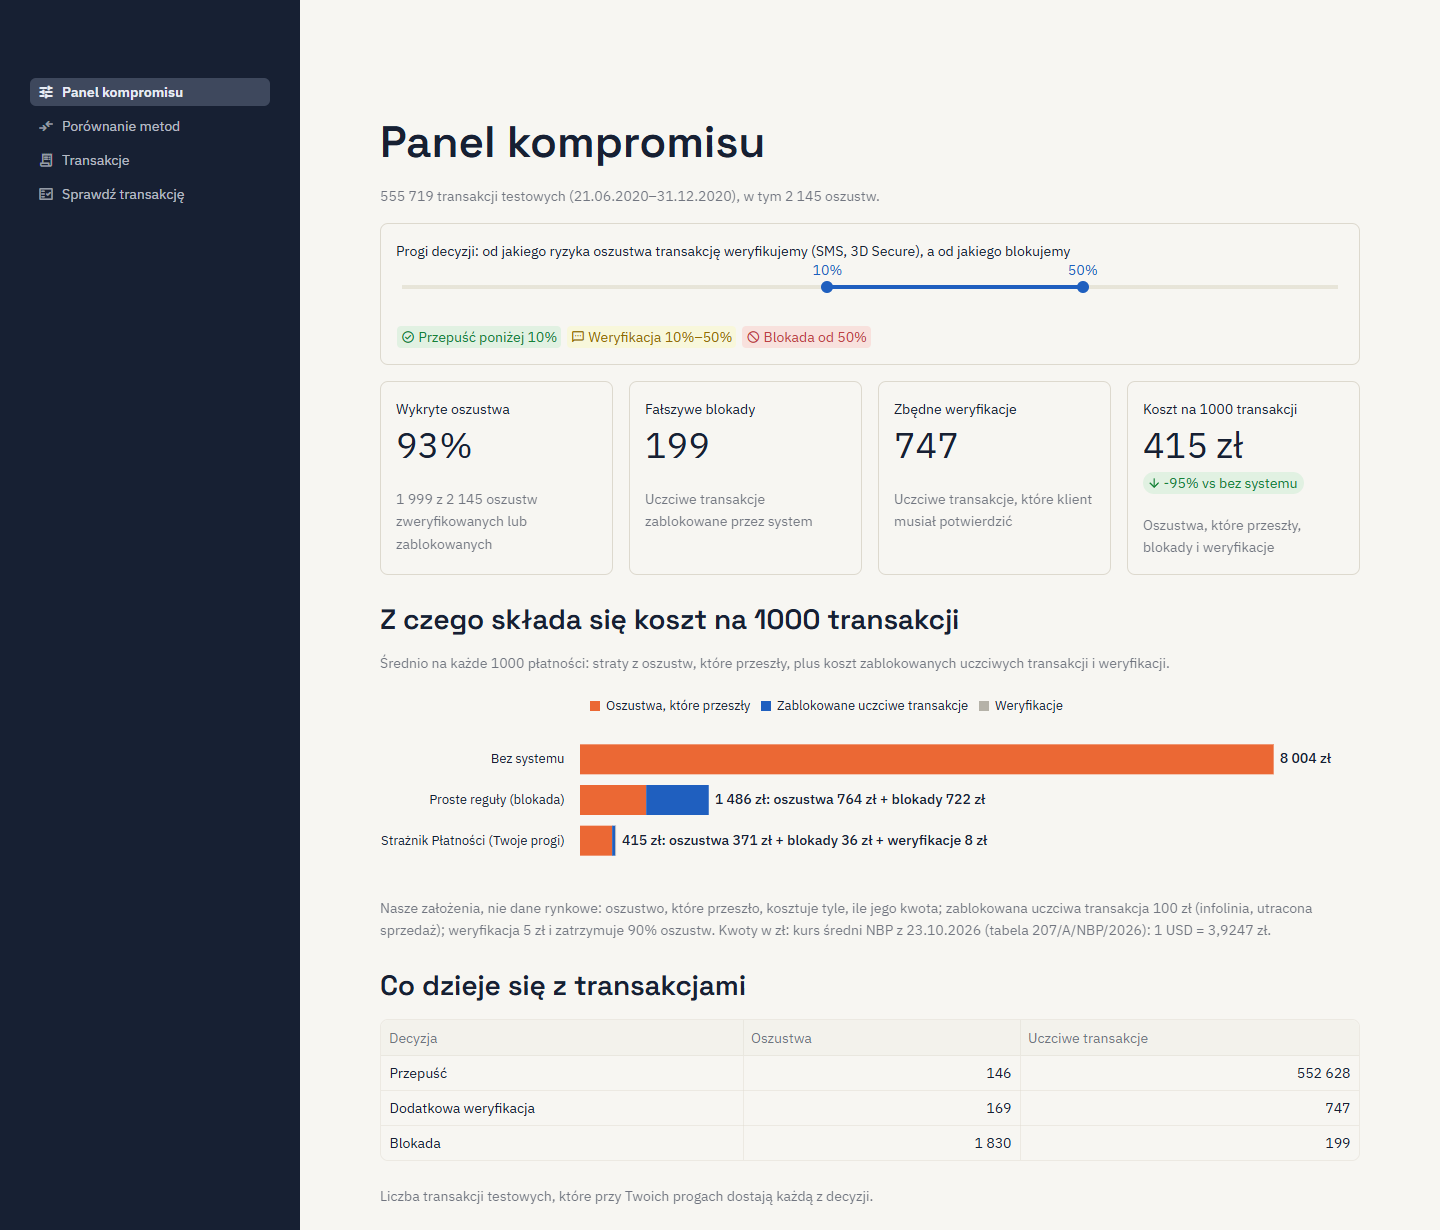
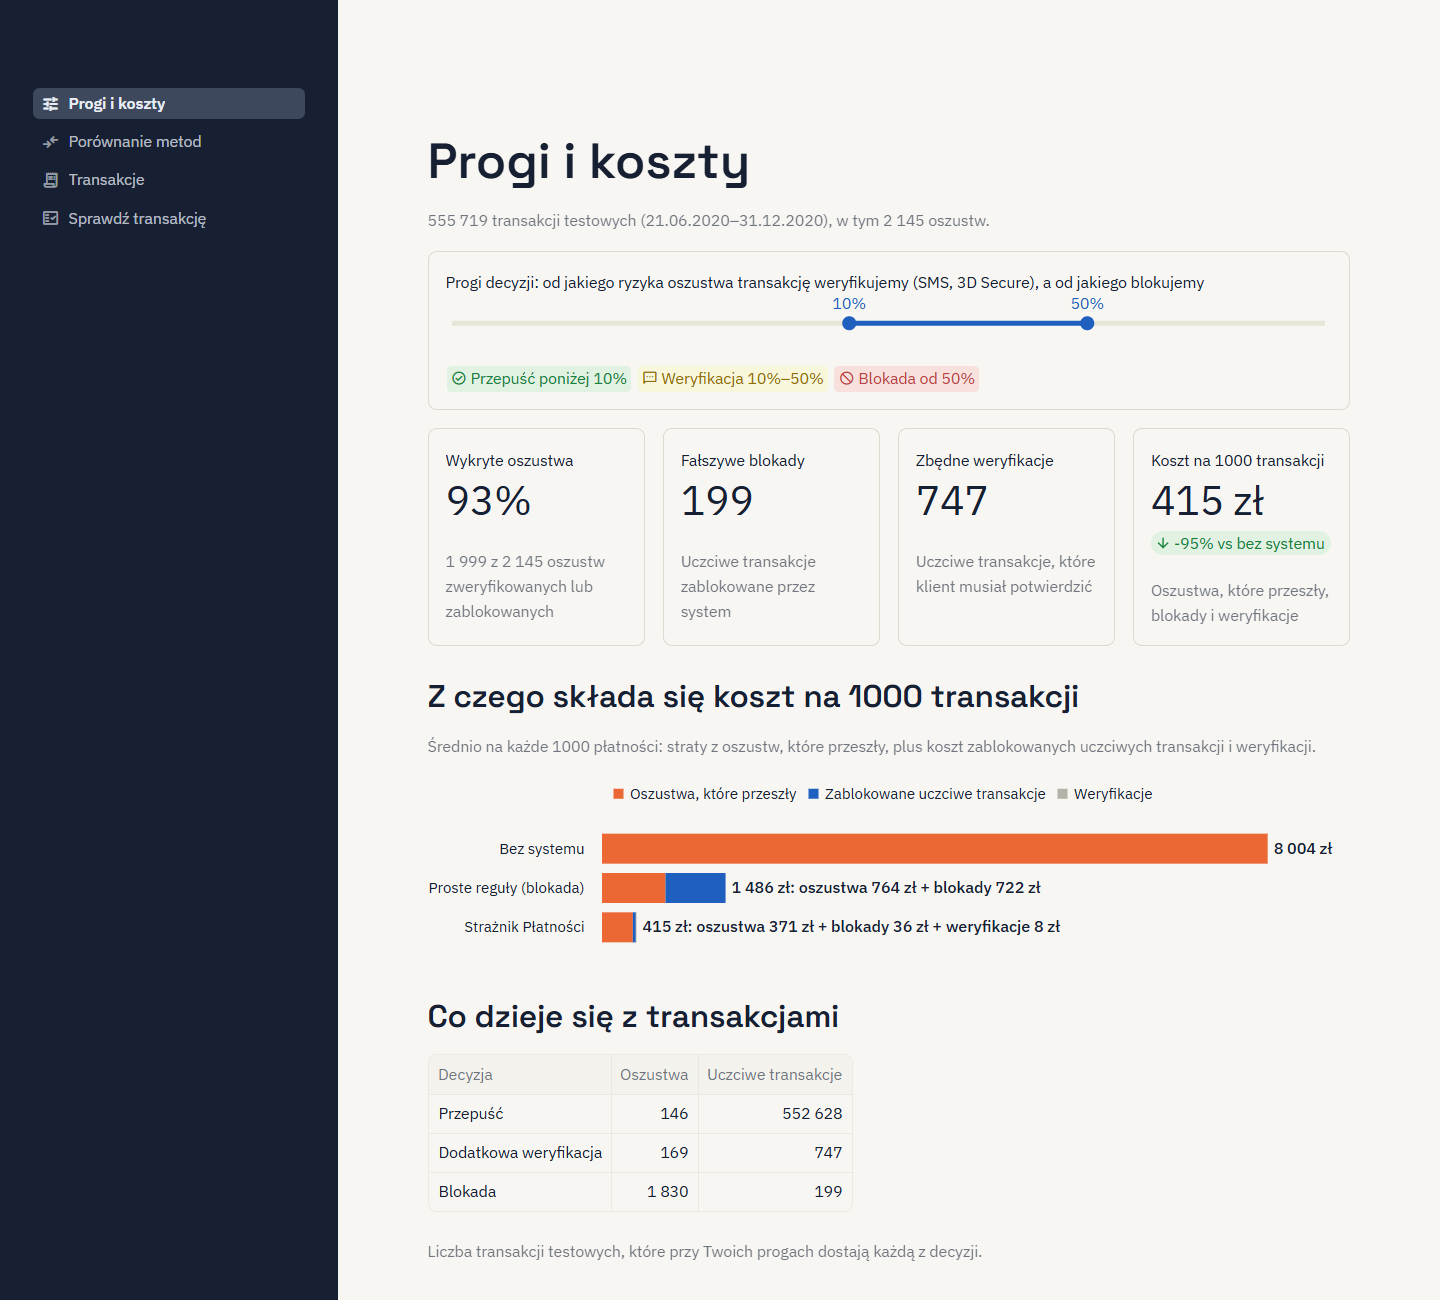
Larger font, narrower tables, fewer captions, rename trade-off panel

diff --git a/views/panel.py b/views/panel.py
@@ -1,4 +1,4 @@
-"""Trade-off panel: the decision thresholds, what they catch, whom they stop and what it costs."""
+"""Thresholds and costs: the decision thresholds, what they catch, whom they stop and what it costs."""
 
 import altair as alt
 import numpy as np
@@ -6,7 +6,7 @@ import pandas as pd
 import streamlit as st
 
 from src.app_data import load_meta, load_scored, readable, show_thresholds
-from src.config import BLOCK_COST, DEFAULT_THRESHOLDS, RISK_STEPS, USD_PLN_SOURCE, VERIFY_COST, VERIFY_EFFICACY
+from src.config import DEFAULT_THRESHOLDS, RISK_STEPS, VERIFY_COST
 from src.evaluation import BLOCK, DECISION_LABELS, PASS, VERIFY, Outcome, decide, evaluate
 from src.formatting import BLUE, GRAY, INK, ORANGE, fmt_date, fmt_int, fmt_pct, fmt_pln, fmt_step
 
@@ -41,7 +41,7 @@ no_system = evaluate(y, amount, np.full(len(df), PASS))
 rules = evaluate(y, amount, np.where(df["rules_any"], BLOCK, PASS))
 
 period = f"{fmt_date(test['from'])}–{fmt_date(test['to'])}"
-st.title("Panel kompromisu")
+st.title("Progi i koszty")
 st.caption(f"{fmt_int(test['rows'])} transakcji testowych ({period}), w tym {fmt_int(test['fraud'])} oszustw.")
 
 with st.container(border=True):
@@ -92,14 +92,9 @@ bars = alt.Chart(parts).mark_bar(size=30).encode(
     order=alt.Order("Kolejność:Q"),
     tooltip=["Wariant:N", "Składnik:N", alt.Tooltip("Etykieta:N", title="Koszt")],
 )
-labels = alt.Chart(totals).mark_text(align="left", dx=6, fontSize=14, fontWeight=500, color=INK).encode(
+labels = alt.Chart(totals).mark_text(align="left", dx=6, fontSize=16, fontWeight=500, color=INK).encode(
     x="Koszt:Q", y=rows, text="Etykieta:N")
 st.altair_chart(readable((bars + labels).properties(height=190)), width="stretch")
-st.caption(
-    f"Nasze założenia, nie dane rynkowe: oszustwo, które przeszło, kosztuje tyle, ile jego kwota; zablokowana "
-    f"uczciwa transakcja {fmt_pln(BLOCK_COST)} (infolinia, utracona sprzedaż); weryfikacja {fmt_pln(VERIFY_COST)} "
-    f"i zatrzymuje {fmt_pct(VERIFY_EFFICACY)} oszustw. Kwoty w zł: {USD_PLN_SOURCE}."
-)
 
 st.subheader("Co dzieje się z transakcjami")
 order = [PASS, VERIFY, BLOCK]
@@ -109,6 +104,6 @@ table = pd.DataFrame({
     "Uczciwe transakcje": [fmt_int(current.honest[d]) for d in order],
 })
 right_aligned = st.column_config.TextColumn(alignment="right")
-st.dataframe(table, hide_index=True, width="stretch",
+st.dataframe(table, hide_index=True, width="content",
              column_config={"Oszustwa": right_aligned, "Uczciwe transakcje": right_aligned})
 st.caption("Liczba transakcji testowych, które przy Twoich progach dostają każdą z decyzji.")

diff --git a/views/transactions.py b/views/transactions.py
@@ -14,19 +14,16 @@ VIEW_NOTES = {
     HELD: "Transakcje skierowane do weryfikacji lub zablokowane, od najbardziej ryzykownych.",
     MISTAKES: "Przepuszczone oszustwa i fałszywe blokady, od najbardziej ryzykownych.",
 }
-ROW_HEIGHT = 35  # px per row of st.dataframe, used to fit the table to its rows
+ROW_HEIGHT = 40  # px per row of st.dataframe, set explicitly to fit the table to its rows
 
 settings = st.session_state.settings
 df = load_scored()
 day = df.loc[df["is_fraud"] == 1, "day"].value_counts().idxmax()
 
-st.title("Transakcje")
-st.caption(f"{day:%d.%m.%Y}, dzień z największą liczbą oszustw w danych testowych. Zaznacz wiersz, aby zobaczyć "
-           "wyjaśnienie decyzji (na start pokazujemy pierwszy).")
+st.title(f"Transakcje z {day:%d.%m.%Y}")
 
-col_view, col_thresholds = st.columns([1.2, 2.8], vertical_alignment="bottom")
-view = col_view.segmented_control("Pokaż", [HELD, MISTAKES], default=HELD, required=True)
-with col_thresholds:
+with st.container(horizontal=True, vertical_alignment="bottom"):
+    view = st.segmented_control("Pokaż", [HELD, MISTAKES], default=HELD, required=True)
     show_thresholds(settings)
 
 day_df = df[df["day"] == day].copy()
@@ -50,7 +47,7 @@ table = pd.DataFrame({
     "Oszustwo wg danych": np.where(day_df["is_fraud"] == 1, "Tak", "Nie"),
 })
 event = st.dataframe(
-    table, hide_index=True, width="stretch", height=ROW_HEIGHT * (min(len(table), 4) + 1) + 3,
+    table, hide_index=True, width="content", row_height=ROW_HEIGHT, height=ROW_HEIGHT * (min(len(table), 4) + 1) + 1,
     on_select="rerun", selection_mode="single-row",
     key=f"transactions-{view}-{settings.verify_from}-{settings.block_from}",
     column_config={
@@ -66,7 +63,7 @@ st.subheader("Wyjaśnienie decyzji")
 st.markdown(f"Wybrana transakcja: **{row['ts']:%H:%M} · {CATEGORY_LABELS[row['category']]} · "
             f"{fmt_pln(row['amount'])}**")
 
-left, right = st.columns([1, 3], gap="large")
+left, right = st.columns([1.2, 2.8], gap="medium")
 with left:
     st.markdown("**Ocena modelu**")
     show_assessment(row["score_xgb"], settings)

diff --git a/views/comparison.py b/views/comparison.py
@@ -14,7 +14,6 @@ y = df["is_fraud"].to_numpy(bool)
 right_aligned = st.column_config.TextColumn(alignment="right")
 
 st.title("Porównanie metod")
-st.caption("Te same transakcje testowe dla wszystkich metod (druga połowa 2020, modele nie widziały ich podczas nauki).")
 
 false_alarms, comparison = compare_at_rules_false_alarms(df)
 detected = comparison.set_index("Metoda")["Wykryte oszustwa"]
@@ -26,8 +25,8 @@ st.markdown(
     f"**{fmt_pct(detected['Regresja logistyczna'])}**, a reguły **{fmt_pct(detected['Proste reguły'])}**."
 )
 table = comparison_table(comparison)
-st.dataframe(table, hide_index=True, width="stretch", column_config={c: right_aligned for c in table.columns[1:]})
-st.caption("Trafne alarmy: jaka część zablokowanych transakcji to oszustwa. Koszt jak w panelu, ale bez weryfikacji.")
+st.dataframe(table, hide_index=True, width="content", column_config={c: right_aligned for c in table.columns[1:]})
+st.caption("Trafne alarmy: jaka część zablokowanych transakcji to oszustwa. Koszt jak w „Progach i kosztach”, ale bez weryfikacji.")
 st.caption(f"Proste reguły: {rules}.")
 
 st.subheader("Wykryte oszustwa a fałszywe blokady")
@@ -51,7 +50,7 @@ lines = alt.Chart(curves).mark_line(strokeWidth=2).encode(x=x, y=y_axis, color=c
 hover_points = alt.Chart(curves).mark_point(size=80, opacity=0).encode(x=x, y=y_axis, tooltip=tooltip)
 point = alt.Chart(rules_point).mark_point(filled=True, size=120, opacity=1).encode(
     x=x, y=y_axis, color=color, tooltip=tooltip)
-point_label = point.mark_text(align="left", dx=10, dy=16, color=INK, fontSize=13).encode(text="Metoda:N")
+point_label = point.mark_text(align="left", dx=10, dy=16, color=INK, fontSize=15).encode(text="Metoda:N")
 st.altair_chart(readable((lines + hover_points + point + point_label).properties(height=360)), width="stretch")
 st.caption("Każdy punkt linii to inny próg modelu. Im wyżej i bardziej w lewo, tym lepiej.")
 

diff --git a/src/app_data.py b/src/app_data.py
@@ -20,7 +20,7 @@ DECISION_BADGES = {PASS: "green", VERIFY: "yellow", BLOCK: "red"}  # Streamlit b
 
 @dataclass(frozen=True)
 class Settings:
-    """The decision thresholds set on the trade-off panel."""
+    """The decision thresholds set on the thresholds and costs page."""
 
     verify_from: float  # risk score (0-1) from which a transaction is verified
     block_from: float  # risk score (0-1) from which a transaction is blocked
@@ -80,8 +80,8 @@ def explain(row: pd.Series) -> pd.DataFrame:
 
 def readable(chart: alt.TopLevelMixin) -> alt.TopLevelMixin:
     """Larger, darker chart text than the default, so it reads well on a big screen."""
-    return (chart.configure_axis(labelFontSize=13, titleFontSize=13, labelColor=INK, titleColor=INK)
-            .configure_legend(labelFontSize=13, labelColor=INK))
+    return (chart.configure_axis(labelFontSize=15, titleFontSize=15, labelColor=INK, titleColor=INK)
+            .configure_legend(labelFontSize=15, labelColor=INK))
 
 
 def slider_position(risk: float) -> float:
@@ -123,7 +123,7 @@ def _risk_meter(risk: float, decision: int, settings: Settings) -> None:
         "label": [fmt_step(settings.verify_from * 100), fmt_step(settings.block_from * 100)],
     })
     ticks = alt.Chart(thresholds).mark_rule(color=INK, strokeWidth=2).encode(x=x, y=alt.value(2), y2=alt.value(26))
-    labels = alt.Chart(thresholds).mark_text(color=INK, fontSize=13, baseline="top").encode(
+    labels = alt.Chart(thresholds).mark_text(color=INK, fontSize=15, baseline="top").encode(
         x=x, y=alt.value(30), text="label:N")
     st.altair_chart((track + fill + ticks + labels).properties(height=48).configure_view(stroke=None), width="stretch")
 

diff --git a/app.py b/app.py
@@ -15,13 +15,13 @@ if not SCORED_PATH.exists():
     st.stop()
 
 page = st.navigation([
-    st.Page("views/panel.py", title="Panel kompromisu", icon=":material/tune:", default=True),
+    st.Page("views/panel.py", title="Progi i koszty", icon=":material/tune:", default=True),
     st.Page("views/comparison.py", title="Porównanie metod", icon=":material/compare_arrows:"),
     st.Page("views/transactions.py", title="Transakcje", icon=":material/receipt_long:"),
     st.Page("views/check.py", title="Sprawdź transakcję", icon=":material/fact_check:"),
 ])
 
-# The thresholds slider is on the trade-off panel and keeps its value across pages.
+# The thresholds slider is on the thresholds and costs page and keeps its value across pages.
 verify_from, block_from = st.session_state.get("thresholds", DEFAULT_THRESHOLDS)
 st.session_state.settings = Settings(verify_from / 100, block_from / 100)
 page.run()

diff --git a/views/check.py b/views/check.py
@@ -27,7 +27,6 @@ def clear_example() -> None:
 
 
 st.title("Sprawdź transakcję")
-st.caption("Wybierz przykład albo wpisz własne dane i zobacz, jak oceni je model.")
 st.segmented_control("Gotowe przykłady", list(CHECK_EXAMPLES), key="example", on_change=fill_in_example)
 
 col_transaction, col_card, col_result = st.columns(3)
@@ -55,6 +54,6 @@ transaction = transaction_input(amount, time_of_day, category, card_mean, spent_
 with col_result.container(border=True, height="stretch"):
     st.markdown("**Ocena modelu**")
     show_assessment(score_transaction(transaction), settings)
-    st.caption("Progi zmienisz w Panelu kompromisu.")
+    st.caption("Progi zmienisz na ekranie „Progi i koszty”.")
 
 show_explanation(transaction)

diff --git a/report.py b/report.py
@@ -222,7 +222,7 @@ Odsetek wykrytych oszustw przy dwóch limitach fałszywych blokad (zablokowanych
 Płeć i wiek poprawiają wynik, najbardziej przy małej liczbie blokad. W aplikacji używamy wariantu bez nich,
 bo decyzja o zablokowaniu karty nie powinna zależeć od płci ani wieku klienta.
 
-## Panel kompromisu przy domyślnych progach
+## Koszty przy domyślnych progach
 
 Wykres: `cost_comparison.png`. Założenia (nasze, nie dane rynkowe): blokada uczciwej transakcji {fmt_pln(BLOCK_COST)},
 jedna weryfikacja {fmt_pln(VERIFY_COST)}, weryfikacja zatrzymuje {fmt_pct(VERIFY_EFFICACY)} oszustw,

diff --git a/docs/tutorial.md b/docs/tutorial.md
@@ -9,11 +9,11 @@ Jak ją uruchomić, opisuje [README](../README.md). Liczby w tym tutorialu dotyc
 
 Ekrany wybierasz w panelu bocznym, w kolejności, w jakiej najlepiej je oglądać.
 
-## 1. Panel kompromisu
+## 1. Progi i koszty
 
-![Panel kompromisu](img/panel.png)
+![Progi i koszty](img/panel.png)
 
-Najważniejszy element całej aplikacji to suwak **Progi decyzji** na górze panelu, z dwoma uchwytami:
+Najważniejszy element całej aplikacji to suwak **Progi decyzji** na górze ekranu, z dwoma uchwytami:
 
 - poniżej pierwszego progu transakcja **przechodzi**,
 - między progami klient musi ją **potwierdzić** (weryfikacja),
@@ -42,9 +42,9 @@ systemu i z prostymi regułami:
 | Proste reguły | 1 486 zł: oszustwa 764 zł + blokady 722 zł |
 | Strażnik Płatności | 415 zł: oszustwa 371 zł + blokady 36 zł + weryfikacje 8 zł |
 
-Reguły zamieniają część oszustw na zablokowane uczciwe transakcje, a model ogranicza jedno i drugie. Pod wykresem
-są założenia kosztowe: oszustwo, które przeszło, kosztuje tyle, ile jego kwota, zablokowana uczciwa transakcja
-100 zł, a weryfikacja 5 zł i zatrzymuje 90% oszustw. To nasze założenia, nie dane rynkowe. Tabela „Co dzieje się
+Reguły zamieniają część oszustw na zablokowane uczciwe transakcje, a model ogranicza jedno i drugie. Koszty
+liczymy według naszych założeń (nie danych rynkowych): oszustwo, które przeszło, kosztuje tyle, ile jego kwota,
+zablokowana uczciwa transakcja 100 zł, a weryfikacja 5 zł i zatrzymuje 90% oszustw. Tabela „Co dzieje się
 z transakcjami” pokazuje, ile oszustw i uczciwych transakcji dostaje każdą z trzech decyzji.
 
 **Spróbuj:**
@@ -70,7 +70,7 @@ uczciwych transakcji co proste reguły (4 013), a porównujemy, ile oszustw przy
 pionowa to wykryte oszustwa. Im wyżej i bardziej w lewo, tym lepiej. Linia XGBoost jest wyżej przy każdej
 liczbie fałszywych blokad.
 
-Ten ekran nie zależy od progów z Panelu kompromisu: porównanie zawsze dotyczy tej samej liczby blokad.
+Ten ekran nie zależy od progów z ekranu „Progi i koszty”: porównanie zawsze dotyczy tej samej liczby blokad.
 
 ## 3. Transakcje
 
@@ -93,7 +93,7 @@ prawdziwa etykieta ze zbioru testowego. W banku nikt by jej nie znał, tutaj poz
 2. Przełącz na „Pomyłki modelu”. Tego dnia model przepuścił dwa oszustwa, oba z ryzykiem ok. 4%: 32 zł
    w sklepie o 15:45 i 423 zł w restauracji o 5:34. W obu ryzyko obniżyły kwota i godzina, bo żadna
    z tych transakcji nie była nocna. Fałszywych blokad tego dnia nie ma. Żaden model nie łapie wszystkiego.
-3. Na Panelu kompromisu ustaw próg weryfikacji na 2% i wróć tutaj. Oba oszustwa trafiają teraz do weryfikacji,
+3. Na ekranie „Progi i koszty” ustaw próg weryfikacji na 2% i wróć tutaj. Oba oszustwa trafiają teraz do weryfikacji,
    więc lista pomyłek jest pusta. W całych danych wykrywamy wtedy 96,7% oszustw zamiast 93,2%, ale zbędnych
    weryfikacji jest 2 388 zamiast 747. Znów kompromis.
 
@@ -104,7 +104,7 @@ prawdziwa etykieta ze zbioru testowego. W banku nikt by jej nie znał, tutaj poz
 Tu sprawdzasz pojedynczą transakcję i od razu widzisz ryzyko, decyzję i wyjaśnienie. Dane są w dwóch kartach:
 **Transakcja** (kwota, godzina, kategoria sklepu) i **Historia karty** (średnia kwota transakcji, wydatki
 w ostatnich 24 h, czas od poprzedniej transakcji). Karta **Ocena modelu** pokazuje ryzyko i decyzję, a pasek
-pod nimi ma tę samą skalę i te same progi co suwak w Panelu kompromisu.
+pod nimi ma tę samą skalę i te same progi co suwak na ekranie „Progi i koszty”.
 
 **Gotowe przykłady** nad formularzem wypełniają go jednym kliknięciem, po jednym na każdą decyzję. Na start
 wybrany jest pierwszy:

diff --git a/README.md b/README.md
@@ -5,7 +5,7 @@
 Demo panelu analityka antyfraudowego. Model ocenia ryzyko oszustwa w każdej transakcji, proponuje decyzję
 (przepuść / dodatkowa weryfikacja / blokada), wyjaśnia ją i pokazuje, ile kosztuje wybrany kompromis.
 
-Ekrany: Panel kompromisu, Porównanie metod, Transakcje, Sprawdź transakcję. Jak z nich korzystać:
+Ekrany: Progi i koszty, Porównanie metod, Transakcje, Sprawdź transakcję. Jak z nich korzystać:
 [docs/tutorial.md](docs/tutorial.md). Wyniki modeli: [results/summary.md](results/summary.md).
 
 ## Uruchomienie

diff --git a/results/summary.md b/results/summary.md
@@ -71,7 +71,7 @@ Odsetek wykrytych oszustw przy dwóch limitach fałszywych blokad (zablokowanych
 Płeć i wiek poprawiają wynik, najbardziej przy małej liczbie blokad. W aplikacji używamy wariantu bez nich,
 bo decyzja o zablokowaniu karty nie powinna zależeć od płci ani wieku klienta.
 
-## Panel kompromisu przy domyślnych progach
+## Koszty przy domyślnych progach
 
 Wykres: `cost_comparison.png`. Założenia (nasze, nie dane rynkowe): blokada uczciwej transakcji 100 zł,
 jedna weryfikacja 5 zł, weryfikacja zatrzymuje 90% oszustw,
